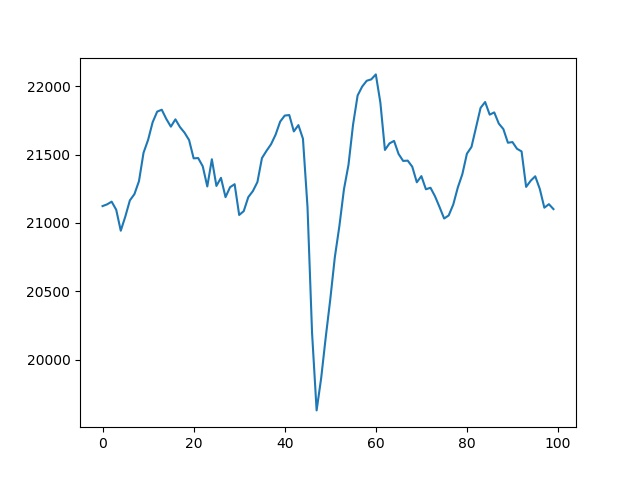
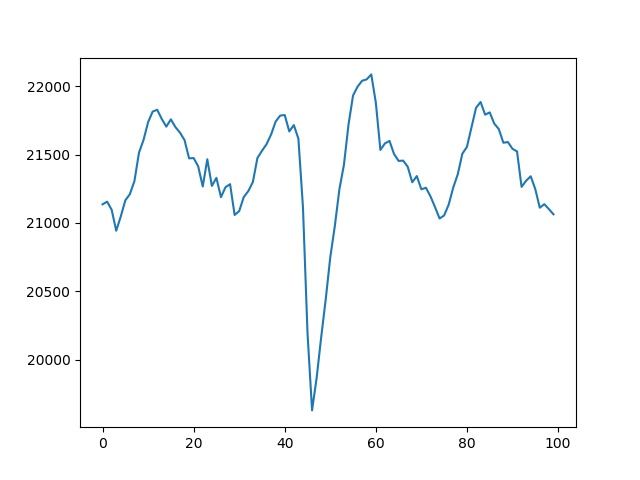
'auto'

Changed region(s): [[0.1562, 0.1562, 0.875, 0.875]]

diff --git a/README.md b/README.md
@@ -1,5 +1,5 @@
 Frizider live: 8
-21101.158333333336 
+21063.016666666666 
 0
 Temperatura:
 
